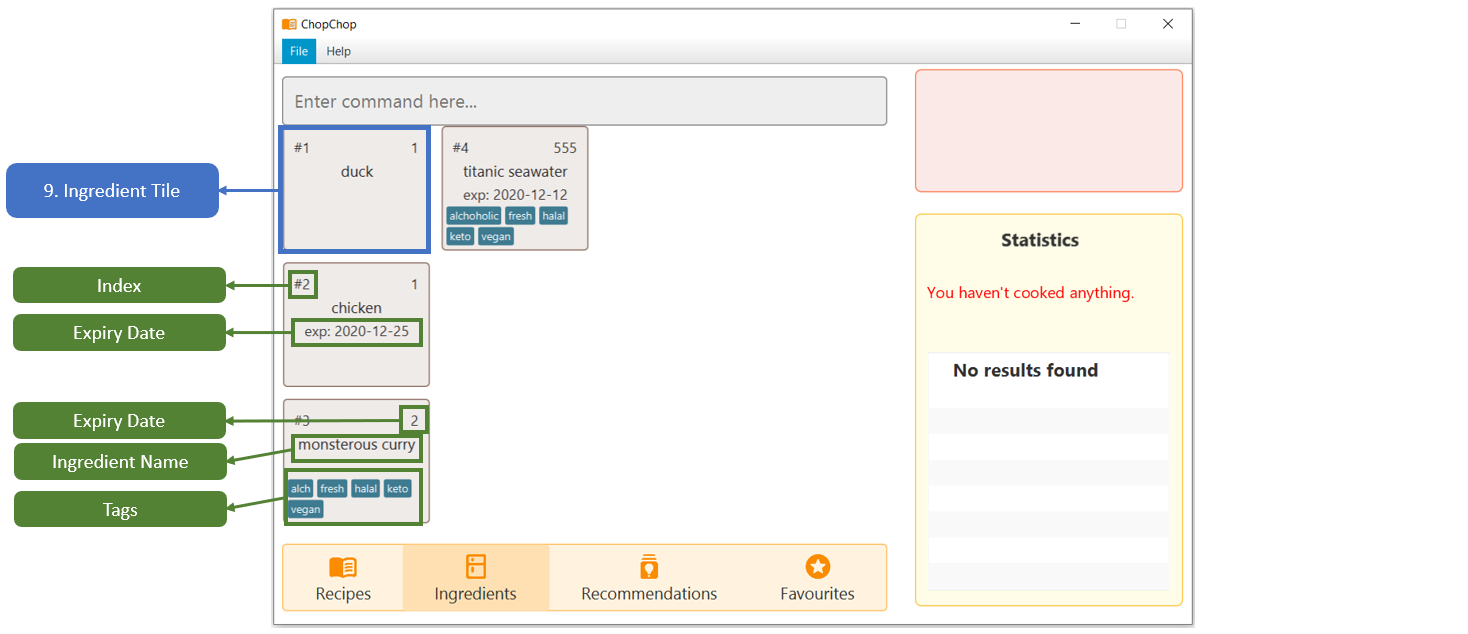
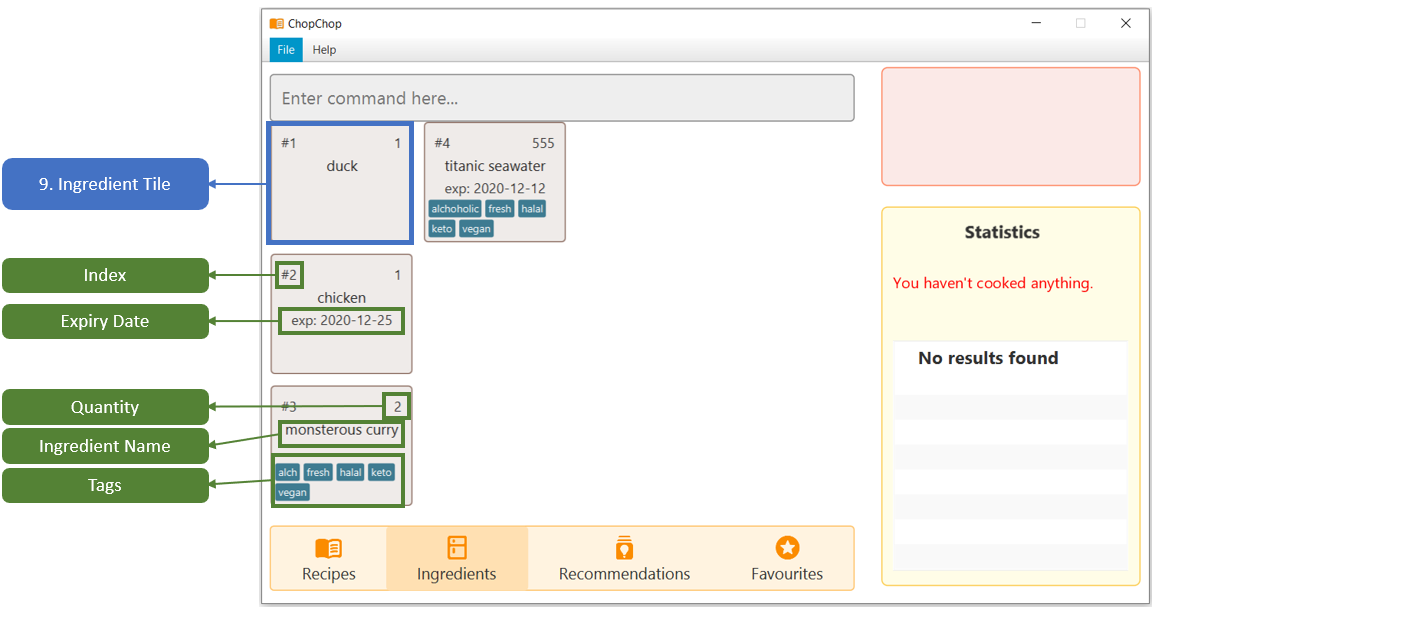
Add Tiles

diff --git a/docs/UserGuide.md b/docs/UserGuide.md
@@ -147,6 +147,20 @@ ChopChop is able to save your favourite recipes — press the `Favourites` butto
 ### Statistics Box
 ChopChop is able to produce statistics based on the food you make! -insert more info cause idk what stats does atm-
 
+<a name="recipeTiles"></a>
+### Recipe Tiles
+ChopChop is able to show you your recipes in the form of tiles — simply click on a tile to view the detailed information about the selected recipe.
+
+<a name="ingredientTiles"></a>
+### Ingredient Tiles
+ChopChop is able to show you your ingredients in the form of tiles. In each tile, there are 5 components:
+
+1. The `Index` shows the index of the ingredient for easier referencing.
+2. The `Expiry Date` of the ingredient.
+3. The `Quantity` of the ingredient.
+4. The `Ingredient Name` of the ingredient.
+5. The `Tags` associated with the ingredient.
+
 
 <div style="text-align: center; padding-bottom: 2em">
 <img src="images/ug/recipe_display_description.png" width="95%" /> <br />
